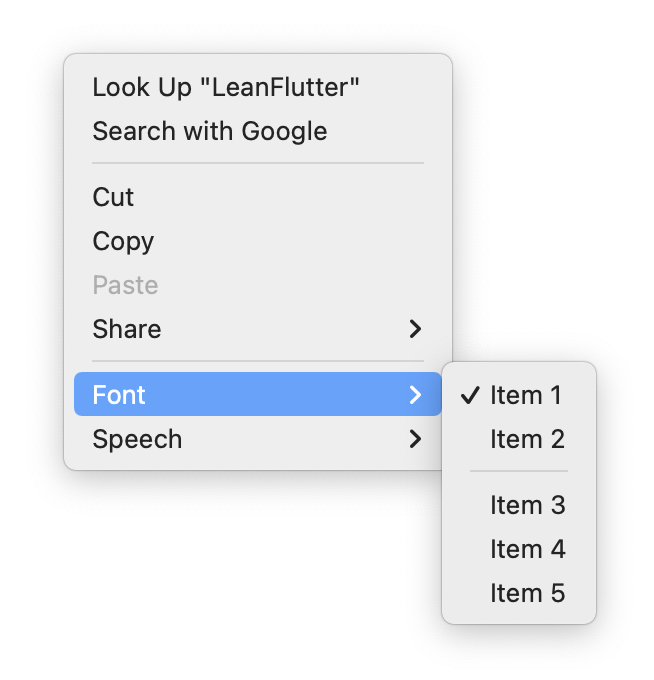
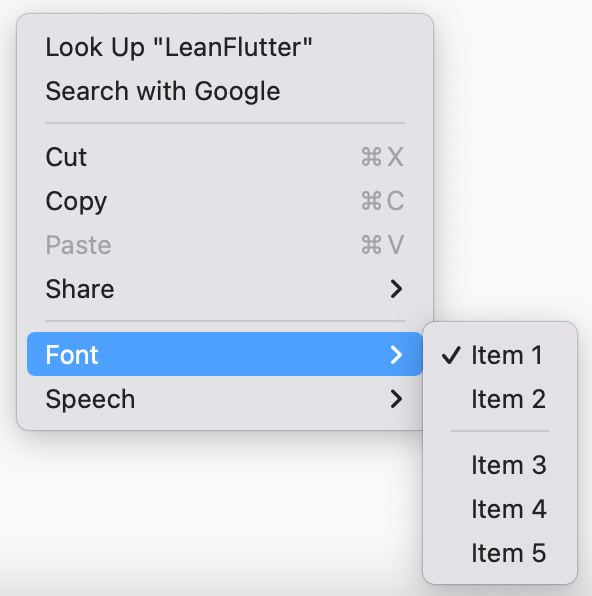
improved and updated shortcuts

diff --git a/example/lib/pages/home.dart b/example/lib/pages/home.dart
@@ -67,7 +67,7 @@ class _HomePageState extends State<HomePage> {
           label: 'Cut',
           shortcutKey: 'x',
           shortcutModifiers: ShortcutModifiers(
-              control: Platform.isWindows, command: Platform.isMacOS),
+              control: Platform.isWindows, meta: Platform.isMacOS),
           onClick: _onClick,
           onHighlight: _onHighlight,
           onLoseHighlight: _onLoseHighlight,
@@ -76,13 +76,16 @@ class _HomePageState extends State<HomePage> {
           label: 'Copy',
           shortcutKey: 'c',
           shortcutModifiers: ShortcutModifiers(
-              control: Platform.isWindows, command: Platform.isMacOS),
+              control: Platform.isWindows, meta: Platform.isMacOS),
           onClick: _onClick,
           onHighlight: _onHighlight,
           onLoseHighlight: _onLoseHighlight,
         ),
         MenuItem(
           label: 'Paste',
+          shortcutKey: 'v',
+          shortcutModifiers: ShortcutModifiers(
+              control: Platform.isWindows, meta: Platform.isMacOS),
           onClick: _onClick,
           onHighlight: _onHighlight,
           onLoseHighlight: _onLoseHighlight,

diff --git a/macos/Classes/FlutterDesktopContextMenu.swift b/macos/Classes/FlutterDesktopContextMenu.swift
@@ -44,13 +44,13 @@ public class FlutterDesktopContextMenu: NSMenu, NSMenuDelegate {
             menuItem.keyEquivalent = shortcutKey
             menuItem.keyEquivalentModifierMask = []
             for modifier in shortcutModifiers {
-                if (modifier == "ctrl") {
+                if (modifier == "control") {
                     menuItem.keyEquivalentModifierMask = menuItem.keyEquivalentModifierMask.union(.control)
                 } else if (modifier == "shift") {
                     menuItem.keyEquivalentModifierMask = menuItem.keyEquivalentModifierMask.union(.shift)
                 } else if (modifier == "alt" || modifier == "option") {
                     menuItem.keyEquivalentModifierMask = menuItem.keyEquivalentModifierMask.union(.option)
-                } else if (modifier == "cmd") {
+                } else if (modifier == "meta" || modifier == "command") {
                     menuItem.keyEquivalentModifierMask = menuItem.keyEquivalentModifierMask.union(.command)
                 }
             }

diff --git a/lib/src/shortcut_modifiers.dart b/lib/src/shortcut_modifiers.dart
@@ -1,29 +1,29 @@
 class ShortcutModifiers {
-  final bool shift;
   final bool control;
-  final bool command;
-  final bool alt; // option for macOS
+  final bool shift;
+  final bool alt;
+  final bool meta;
 
   ShortcutModifiers({
-    this.shift = false,
     this.control = false,
-    this.command = false,
+    this.shift = false,
     this.alt = false,
+    this.meta = false,
   });
 
   List<String> toList() {
     List<String> modifiers = [];
+    if (control) {
+      modifiers.add('control');
+    }
     if (shift) {
       modifiers.add('shift');
     }
-    if (control) {
-      modifiers.add('ctrl');
-    }
-    if (command) {
-      modifiers.add('cmd');
-    }
     if (alt) {
       modifiers.add('alt');
+    }
+    if (meta) {
+      modifiers.add('meta');
     }
     return modifiers;
   }

diff --git a/README.md b/README.md
@@ -1,14 +1,9 @@
 # flutter_desktop_context_menu
 
-[![pub version][pub-image]][pub-url] [![][discord-image]][discord-url] ![][visits-count-image] 
+[![pub version][pub-image]][pub-url]
 
 [pub-image]: https://img.shields.io/pub/v/contextual_menu.svg
-[pub-url]: https://pub.dev/packages/contextual_menu
-
-[discord-image]: https://img.shields.io/discord/884679008049037342.svg
-[discord-url]: https://discord.gg/zPa6EZ2jqb
-
-[visits-count-image]: https://img.shields.io/badge/dynamic/json?label=Visits%20Count&query=value&url=https://api.countapi.xyz/hit/leanflutter.contextual_menu/visits
+[pub-url]: https://pub.dev/packages/flutter_desktop_context_menu
 
 This plugin allows Flutter desktop apps to create native context menus.
 
@@ -17,7 +12,7 @@ This plugin allows Flutter desktop apps to create native context menus.
 <!-- START doctoc generated TOC please keep comment here to allow auto update -->
 <!-- DON'T EDIT THIS SECTION, INSTEAD RE-RUN doctoc TO UPDATE -->
 
-- [contextual_menu](#contextual_menu)
+- [flutter_desktop_context_menu](#flutter_desktop_context_menu)
   - [Platform Support](#platform-support)
   - [Screenshots](#screenshots)
   - [Quick Start](#quick-start)
@@ -39,7 +34,7 @@ This plugin allows Flutter desktop apps to create native context menus.
 
 | macOS                                                                                        | Linux                                                                                        | Windows                                                                                             |
 | -------------------------------------------------------------------------------------------- | -------------------------------------------------------------------------------------------- | --------------------------------------------------------------------------------------------------- |
-| ![](https://github.com/leanflutter/contextual_menu/blob/main/screenshots/macos.png?raw=true) | ![](https://github.com/leanflutter/contextual_menu/blob/main/screenshots/linux.png?raw=true) | ![image](https://github.com/leanflutter/contextual_menu/blob/main/screenshots/windows.png?raw=true) |
+| ![](https://github.com/proteye/flutter_desktop_context_menu/blob/main/screenshots/macos.png?raw=true) | ![](https://github.com/proteye/flutter_desktop_context_menu/blob/main/screenshots/linux.png?raw=true) | ![image](https://github.com/proteye/flutter_desktop_context_menu/blob/main/screenshots/windows.png?raw=true) |
 
 ## Quick Start
 
@@ -49,29 +44,33 @@ Add this to your package's pubspec.yaml file:
 
 ```yaml
 dependencies:
-  contextual_menu: ^0.1.2
+  flutter_desktop_context_menu: ^0.2.0
 ```
 
 Or
 
 ```yaml
 dependencies:
-  contextual_menu:
+  flutter_desktop_context_menu:
     git:
-      url: https://github.com/leanflutter/contextual_menu.git
+      url: https://github.com/proteye/flutter_desktop_context_menu.git
       ref: main
 ```
 
 ### Usage
 
 ```dart
-import 'package:flutter/material.dart' hide MenuItem;
-import 'package:contextual_menu/contextual_menu.dart';
+import 'dart:io';
+import 'package:flutter/material.dart';
+import 'package:flutter_desktop_context_menu/flutter_desktop_context_menu.dart';
 
 Menu menu = Menu(
   items: [
     MenuItem(
       label: 'Copy',
+      shortcutKey: 'c',
+      shortcutModifiers: ShortcutModifiers(
+        control: Platform.isWindows, meta: Platform.isMacOS),
       onClick: (_) {
         print('Clicked Copy');
       },
@@ -94,21 +93,13 @@ Menu menu = Menu(
 );
 
 popUpContextualMenu(
-  _menu!,
+  menu,
   placement: Placement.bottomLeft,
 );
 
 ```
 
 > Please see the example app of this plugin for a full example.
-
-## Who's using it?
-
-- [Biyi (比译)](https://biyidev.com/) - A convenient translation and dictionary app.
-
-## Related Links
-
-- https://github.com/leanflutter/menu_base
 
 ## License
 
